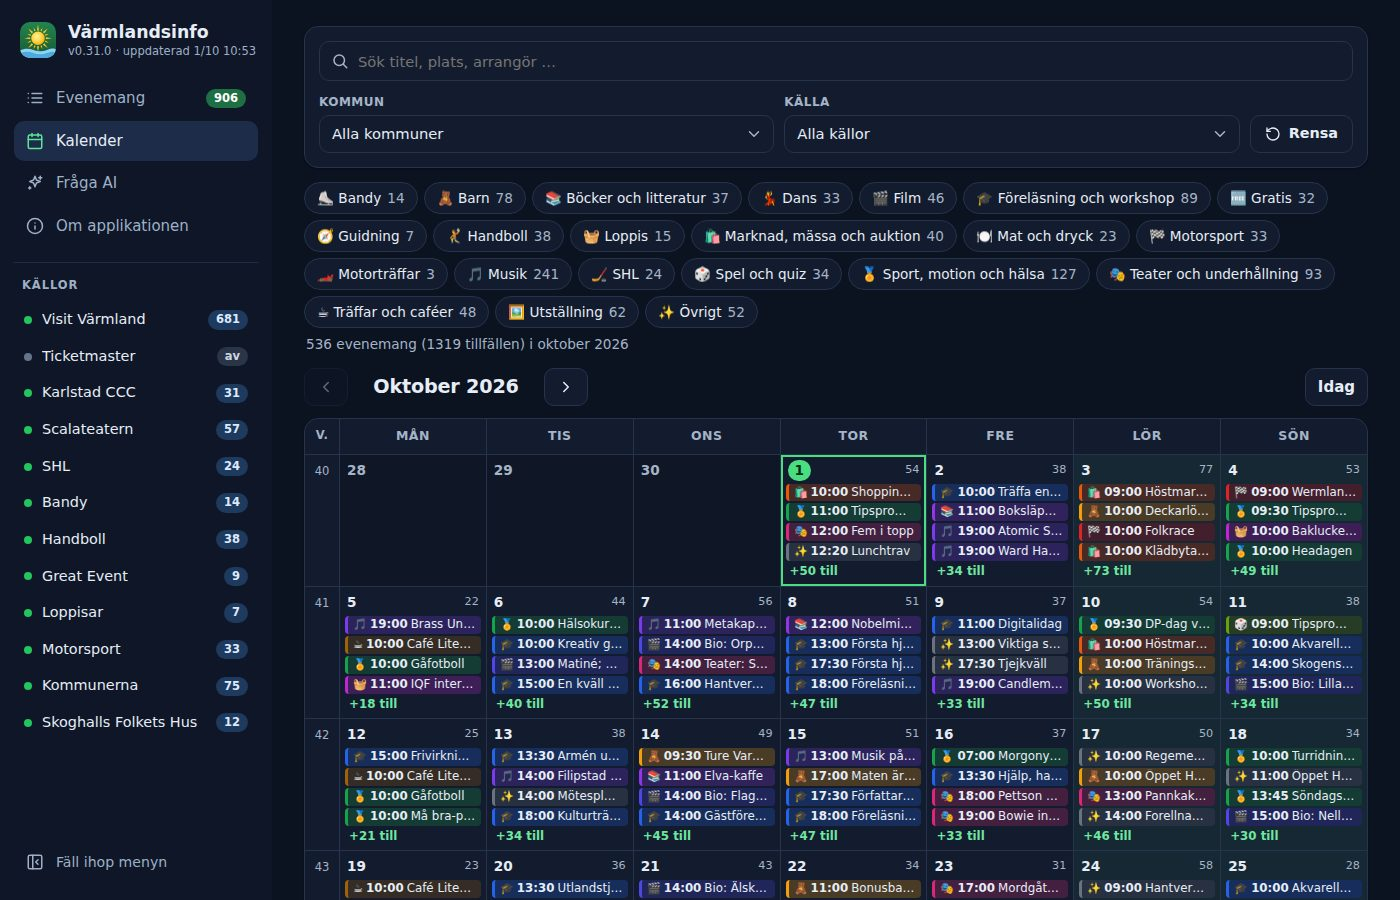
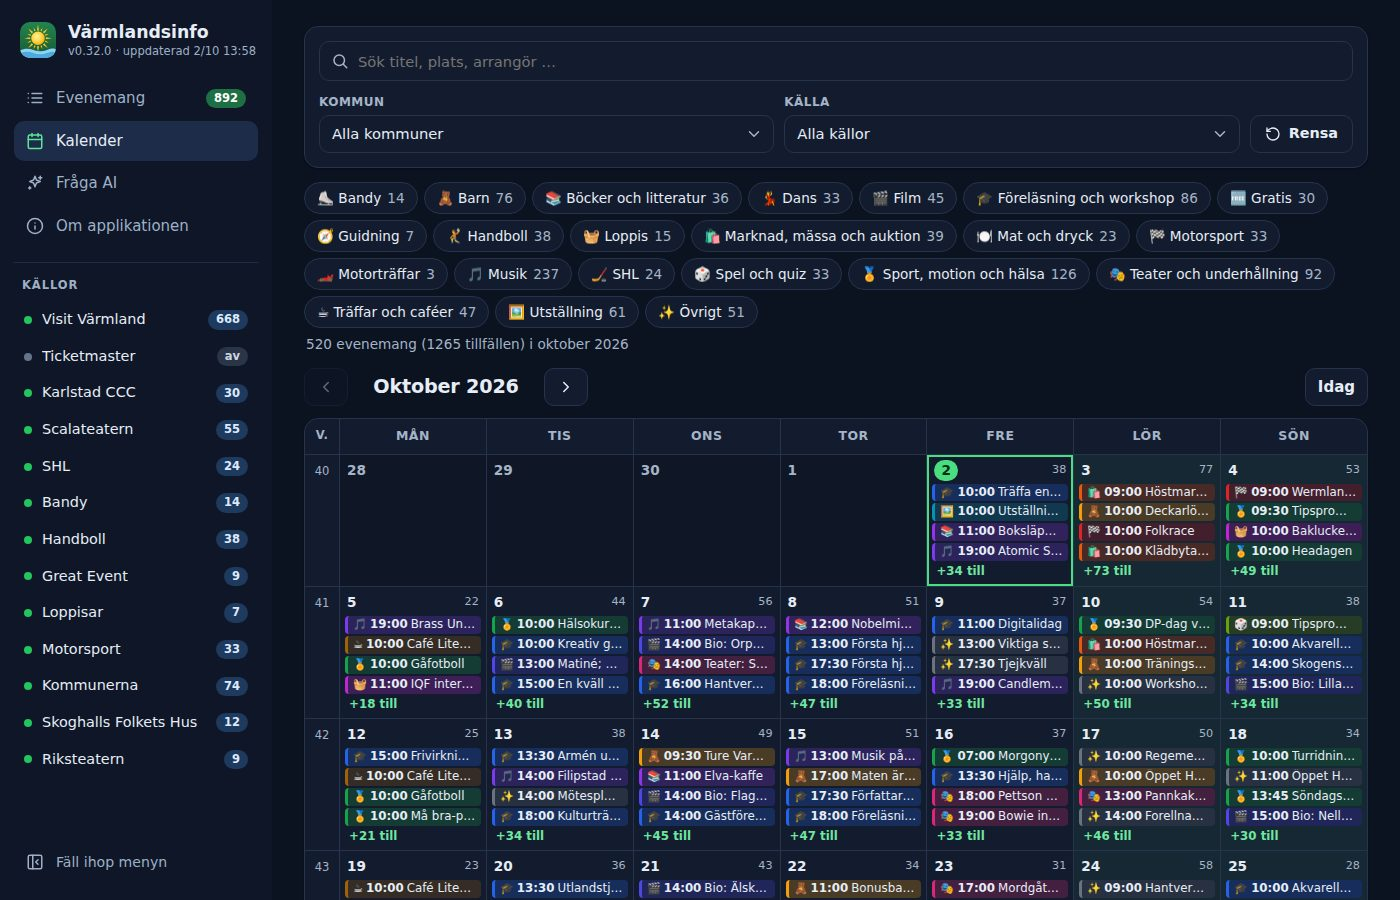
Skärmdumparna med v0.32.0 (#99)
Lista, kalender, Fråga AI, Motorsport och mobil tagna mot sparad data,
med källan Riksteatern i menyn.

Closes #99

Claude-Session: https://claude.ai/code/session_01Ngi4DpZLn2kVoxuKv1qdu3

diff --git a/CLAUDE.md b/CLAUDE.md
@@ -104,7 +104,7 @@ gröna och det finns inga andra grenar eller öppna PR:er.
   Kommunerna (#79, v0.28.0), bara kommuner i filtret Kommun (#81, v0.28.1), arkitekturbilden med 13 källor och
   aktuella kodhänvisningar (#80, v0.28.2), källan Handboll och arkitekturbilden med 14 källor (#82, v0.29.0) och
   skärmdumparna med Handboll (#83).
-- **Inte släppt:** inget. v0.32.0 innehåller den nya källan Riksteatern med arkitekturbilden med 16 källor (#98,
+- **Inte släppt** (bara dokumentation): skärmdumparna med v0.32.0 (#99). v0.32.0 innehåller den nya källan Riksteatern med arkitekturbilden med 16 källor (#98,
   Fråga AI känner igen källornas namn) och skärmdumparna med v0.31.0 (#97). v0.31.0 innehåller den nya källan Skoghalls Folkets Hus och `merge.same_slot` (#96),
   Visit Värmlands kommun ur platsen först och `merge.duplicate_listing` (#95) och arkitekturbilden med 15 källor.
   v0.30.3 innehåller arkitekturbilden och skärmdumparna efter säkerhetsarbetet (#94). v0.30.1 innehåller #91 (härdad container i `docker-compose.yaml`, `apt-get upgrade` i

diff --git a/CHANGELOG.md b/CHANGELOG.md
@@ -6,6 +6,9 @@ Formatet följer [Keep a Changelog](https://keepachangelog.com/sv/1.1.0/) och pr
 
 ## [Unreleased]
 
+### Dokumentation
+- Skärmdumparna visar v0.32.0 och källan Riksteatern (#99).
+
 ## [0.32.0] - 2026-10-02
 
 ### Tillagt
